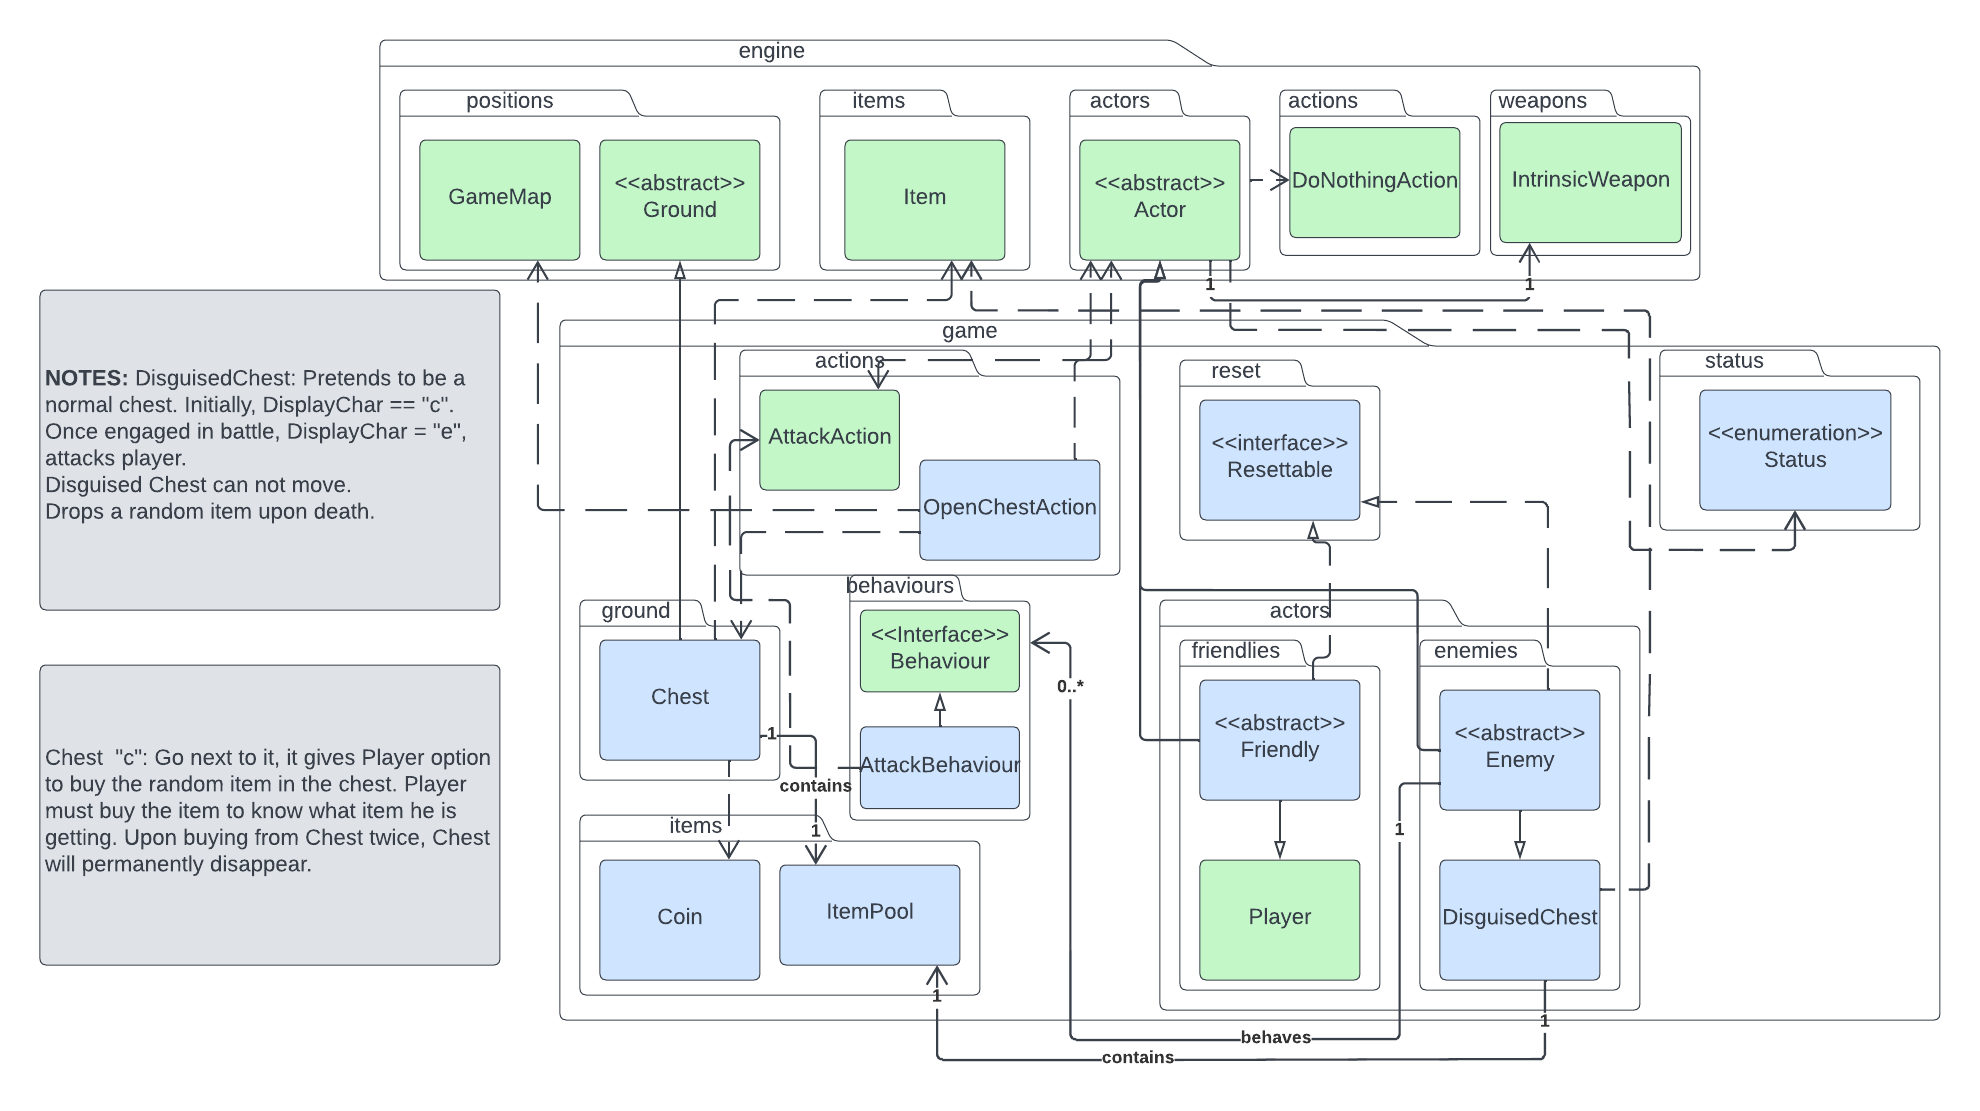
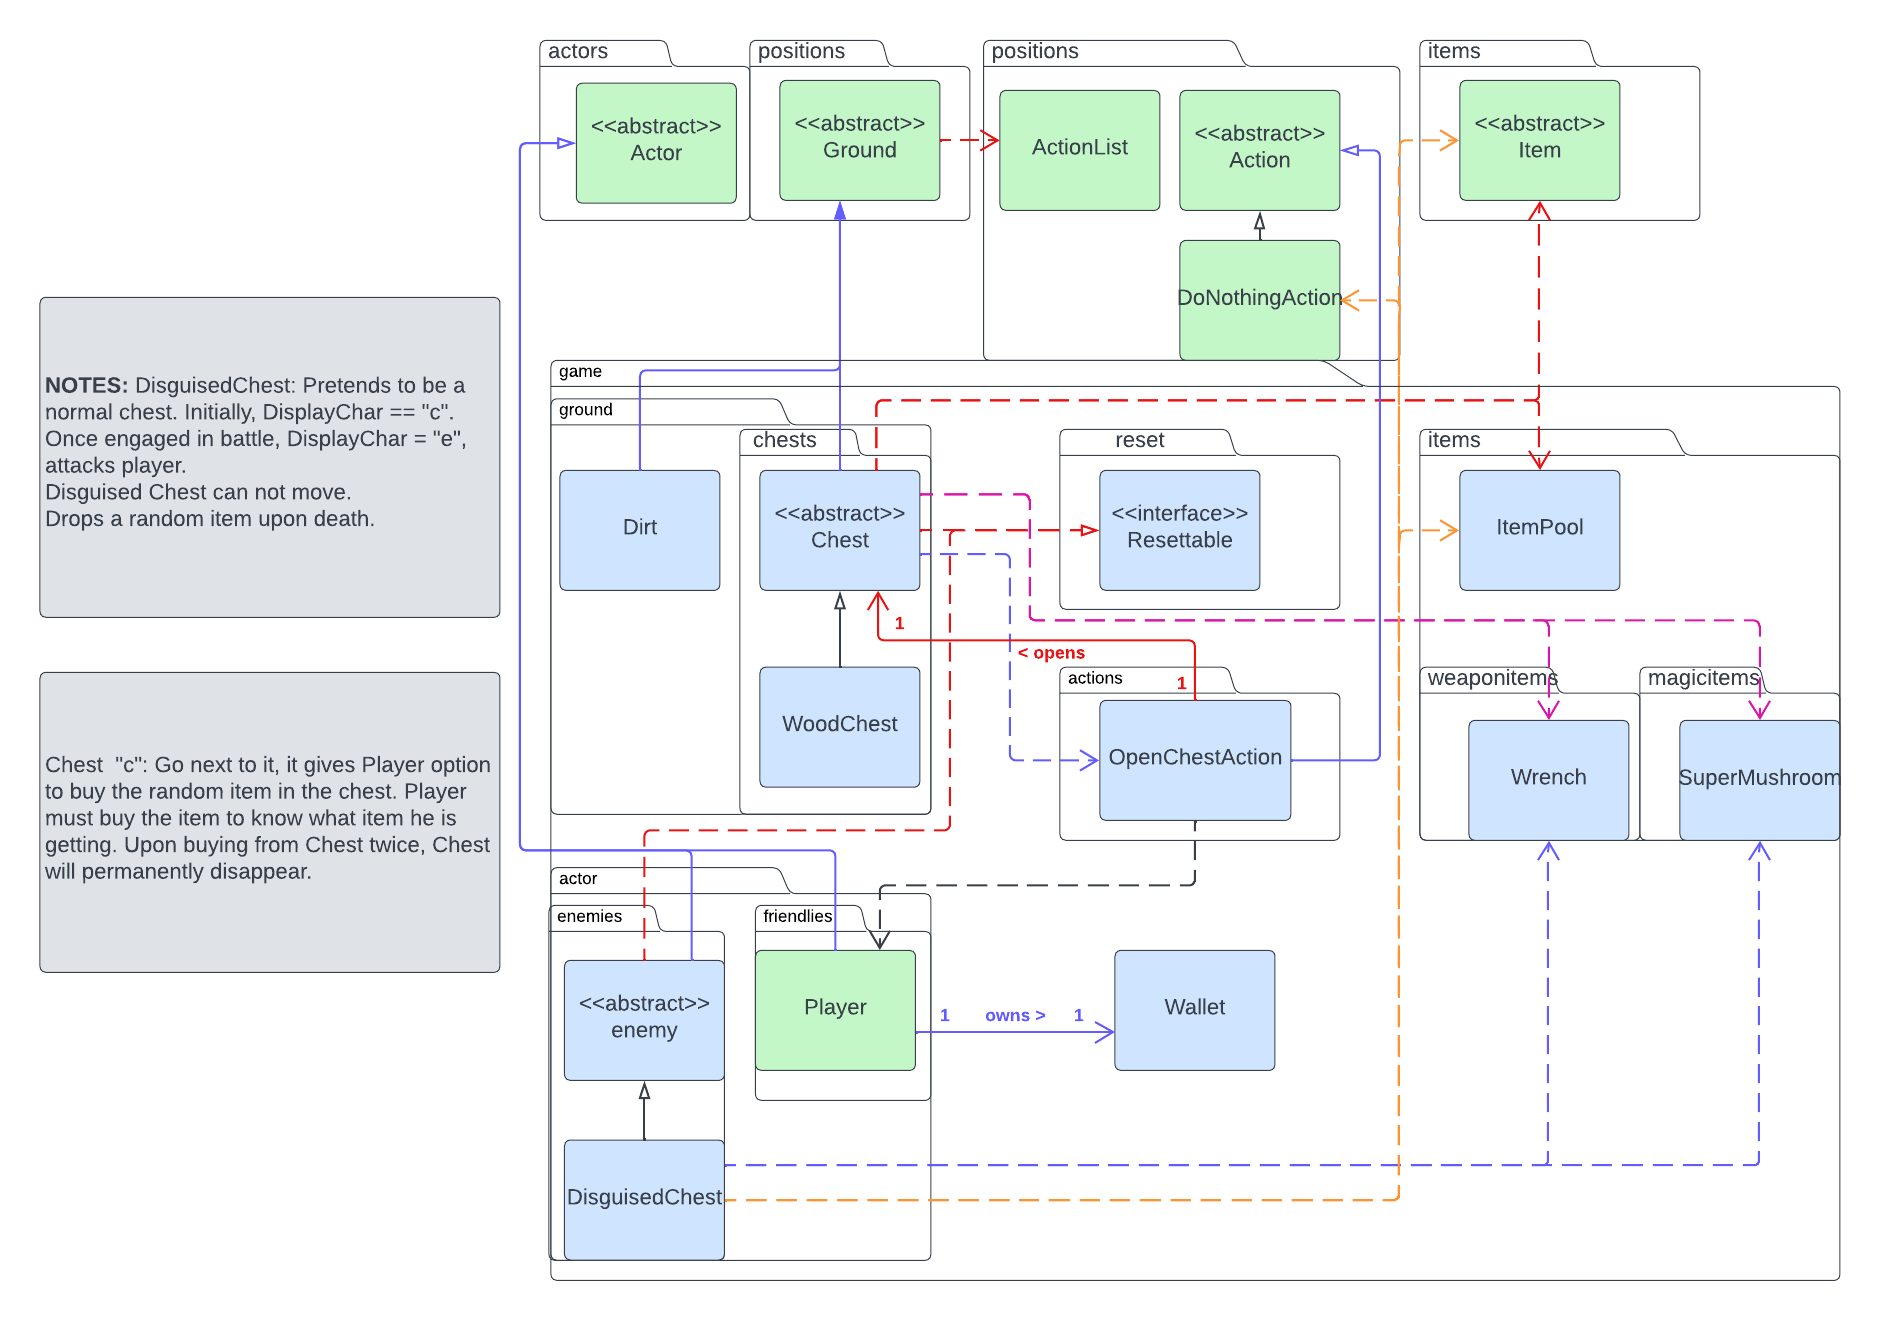
refactor magic_items and weapon_items to remove underscores

diff --git a/src/game/ground/chests/Chest.java b/src/game/ground/chests/Chest.java
@@ -86,6 +86,7 @@ public abstract class Chest extends Ground implements Resettable {
         }
     }
 
+    @Override
     public ActionList allowableActions(Actor actor, Location location, String direction) {
         ActionList actions = new ActionList();
         if(actor.toString().equals("Player")) { // only offer Player OpenChestAction

diff --git a/docs/design_rationale/design_rationale.md b/docs/design_rationale/design_rationale.md
@@ -308,11 +308,14 @@ from Enemies, this upholds the **Dependency Inversion Principle**, where concret
 **Enemy** class
 
 ## REQ12: Chests / DisguisedChests ##
-- Create an **OpenChestAction**, which the **Chest** allows the actor to use, this follows the **Open-Close Principle**, 
-as we could reuse this action for different types of Chests or Boxes.
-- Rather than implement **ItemPool** class as a static class, it can be instantiated, 
-(following the **Open-Close Principle**) such that each Chest can have its own **ItemPool**, 
-which rolls a random item from its ArrayList of items.
+- Chest was created as an abstract class to follow the **Open Close Principle** as this allows for additional chests to
+extend from it (each with their own item pools) whilst retaining the behaviour of chest.
+- ItemPool was created to handle the selecting a random drop from a pool of drops. This follows **Single Responsibility
+principle** and **Dependency inversion** as this class is solely responsible for selecting such an item rather than chest, 
+allowing for further extension to things such as an enemy loot pool. **Dependency inversion principle** is upheld as we 
+may add any item to the pool rather than a set poo.
+- Create an **OpenChestAction**, which the **Chest** allows the actor to use, this follows the **Single Responsibility**, 
+as this handles the menu display for the action, purchasing from the player's wallet giving the item at the location.
 - Implemented **DisguisedChest** such that it extends **Enemy**, carrying over the behaviours of **Enemy** further 
 following the **Dependency Inversion Principle**. Moreover, the **Open-Close Principle** is demonstrated here such that 
 both the **Ground Chest** and **Actor DisguisedChest**, have an **ItemPool** as their attribute, emphasizing the 
